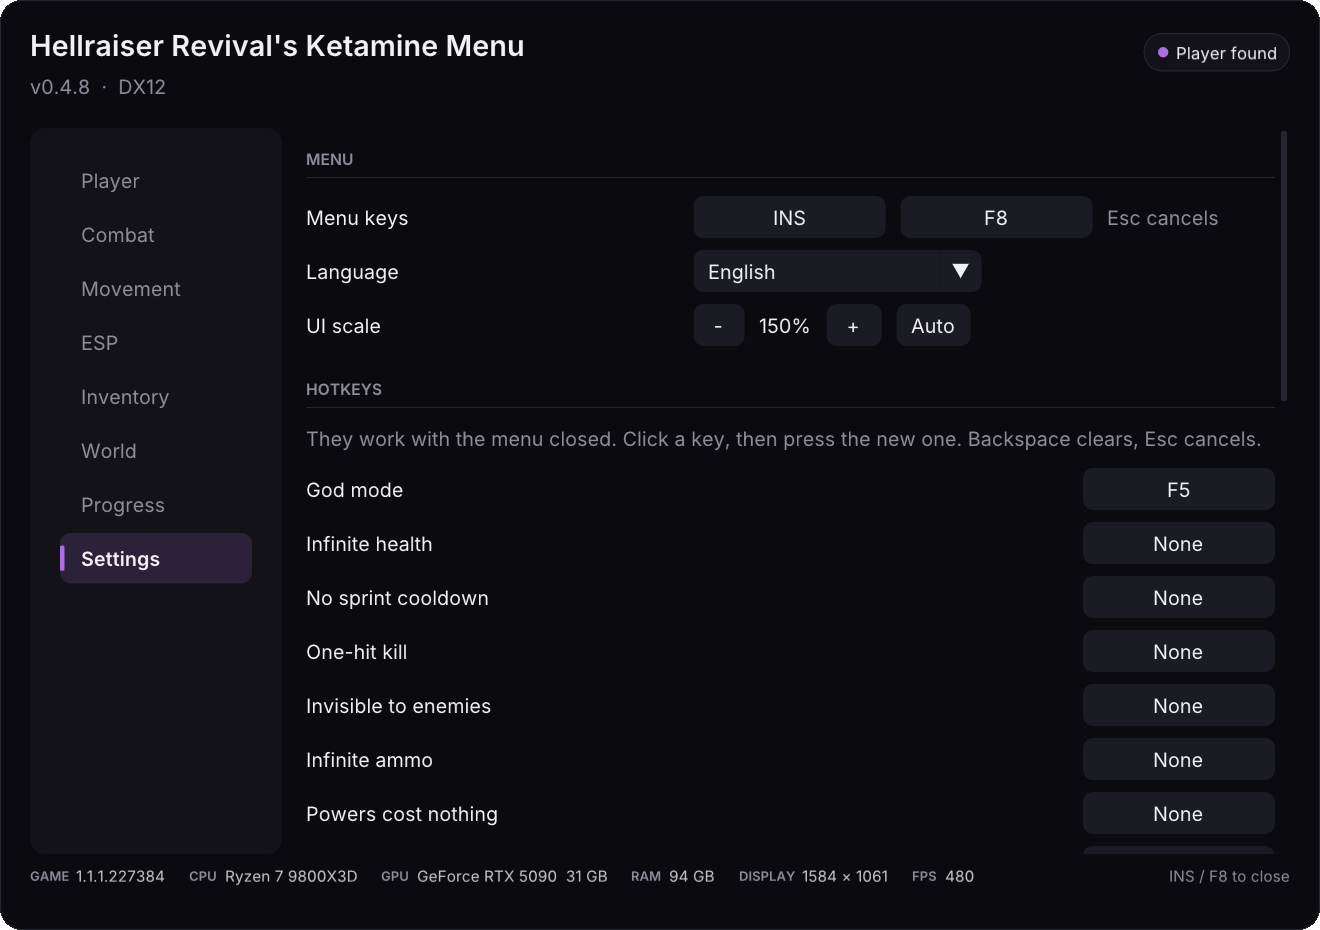
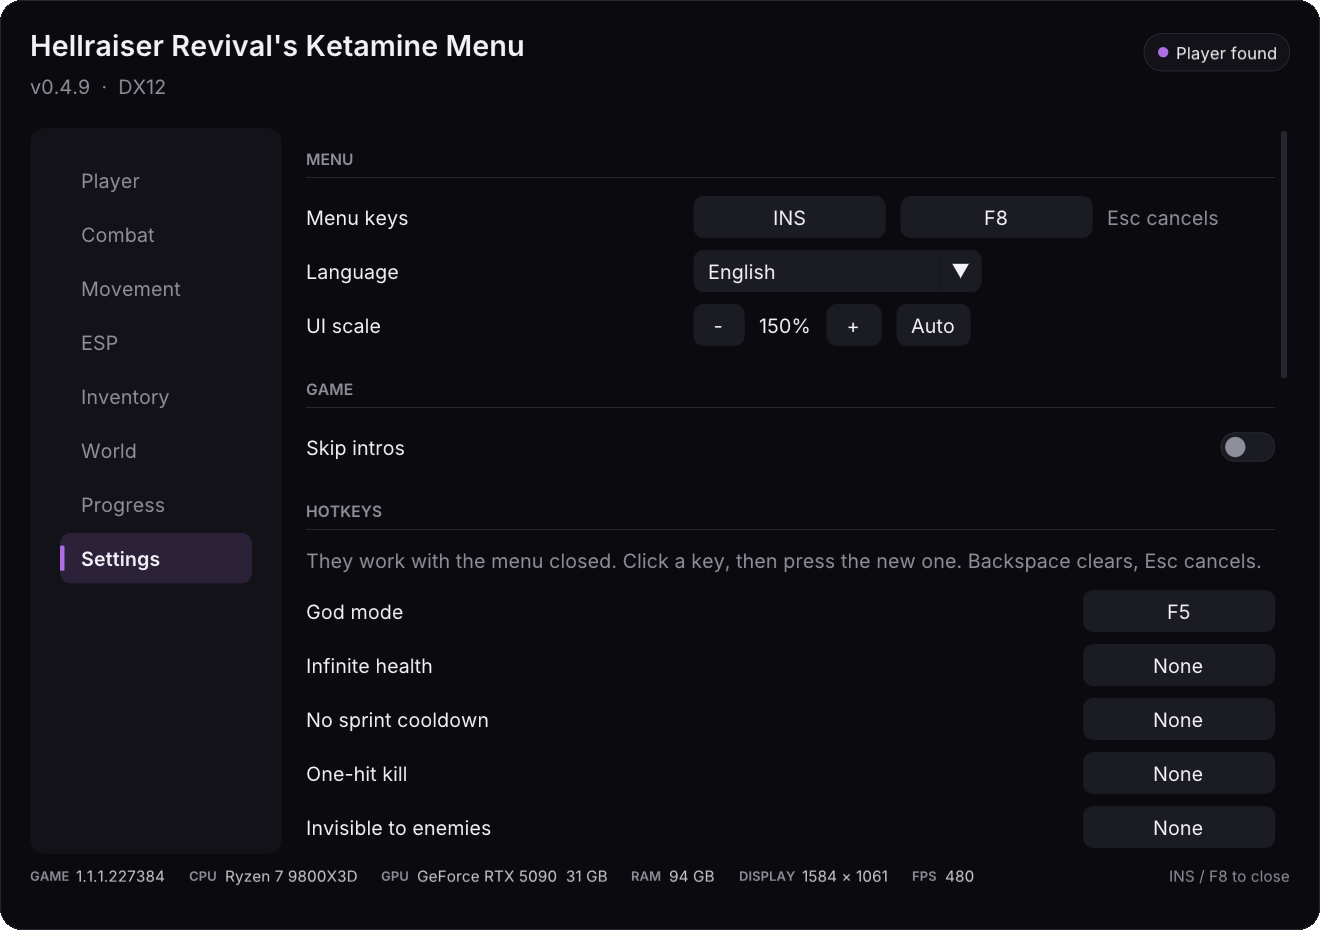
Auto lockpick and Skip intros options
- World > Auto lockpick: once a lockpick close-up has been open for 0.6 s,
  the puzzle task the player state points at is skipped with the game's own
  SkipPuzzle (PuzzleSkipped on the puzzle as a fallback).
- Settings > Skip intros: the startup splash screens (warnings, Saber, Boss
  Team, Unreal, autosave notice) are marked skipped with near-zero durations
  as soon as the live W_SplashScreens widget exists; EULA and brightness are
  left alone. Title screen ~30 s sooner, checked in the game.
- READMEs (9 languages), Nexus description, default ini and three README
  screenshots updated for these and the power unlock.

diff --git a/src/features.cpp b/src/features.cpp
@@ -33,6 +33,9 @@ const ToggleInfo kToggles[ToggleCount] = {
     {"FreezeAI", "Freeze enemies", "Enemies stop moving and attacking."},
     {"HideHUD", "Hide HUD", "Hides the game interface (menus you open later stay visible)."},
     {"FreeCam", "Free camera", "Detached camera: movement keys to move, mouse to look. Your character stays in place."},
+    {"AutoLockpick", "Auto lockpick", "Locks open by themselves a moment after you start picking them."},
+    {"SkipIntros", "Skip intros",
+     "Skips the logos and notices when the game starts. The EULA and brightness screens still show the first time."},
     {"Esp", "ESP", "Shows enemies and objects through walls."},
     {"EspBox", "Box", "Corner box around each enemy.", true},
     {"EspHealth", "Health bar", "Enemy health next to the box.", true},
@@ -85,6 +88,9 @@ Snapshot g_snap;
 struct State {
     Weak pc, player, attrs, cmc, cheat, objectives;
     Weak cheatPawn; // the pawn the tag-based cheats (invisible, infinite ammo) were applied to
+    uint64_t lockAt = 0;                 // when the current lockpick close-up opened (UINT64_MAX: already opened)
+    uint64_t splashAt = 0, splashSince = 0; // last / first look for the startup splash screens
+    bool introsDone = false;
     std::map<std::string, Weak> cdo;
     std::map<std::string, Weak> items;
     std::vector<Weak> enemies;
@@ -714,6 +720,25 @@ void TickPlayer(UObject* player, uint64_t now, Snapshot& snap)
             *ammo = top;
         }
     }
+    // Auto lockpick: once a lockpick close-up has been open for a moment, let the game's own puzzle skip open it.
+    // The player state points at the puzzle task only while a puzzle is open, so the class lookups stay rare.
+    auto flag = [](UObject* o, const char* name) {
+        bool v = false;
+        return GetBool(o, name, &v) && v;
+    };
+    UObject* task = g_on[AutoLockpick] ? Ptr(Ptr(pc, "PlayerState"), "PuzzleRef") : nullptr;
+    UObject* puzzle = task && IsA(task, FindClass("BP_TASK_FocusEnvPuzzle_C")) ? Ptr(task, "PuzzleActorRef") : nullptr;
+    if (!puzzle || !IsA(puzzle, FindClass("BP_EnvPuzzleBaseActor_LockpickPuzzle_C")) || !flag(puzzle, "bPuzzleActive") ||
+        flag(puzzle, "PuzzleFinished")) {
+        s.lockAt = 0;
+    } else if (!s.lockAt) {
+        s.lockAt = now;
+    } else if (s.lockAt != UINT64_MAX && now - s.lockAt > 600) {
+        s.lockAt = UINT64_MAX; // once per close-up
+        bool ok = Call(task, "SkipPuzzle").Run() || Call(puzzle, "PuzzleSkipped").Run();
+        km::Log("Auto lockpick: %s", ok ? "lock opened" : "the puzzle can't be skipped");
+    }
+
     if (!FindProp(ClassOf(player), "bIgnoreSufferingCost")) why[NoSufferingCost] = "Suffering settings not found.";
     if (Track(NoSufferingCost, [&] {
             SetBool(player, "bIgnoreSufferingCost", false);
@@ -867,6 +892,34 @@ void SlowRefresh(UObject* player, Snapshot& snap)
     for (auto& c : cps) snap.checkpoints.push_back(c.second);
 }
 
+// Startup logos and notices: as soon as the splash widget exists, mark each screen skipped and shrink its durations
+// so it ends at once through its own flow. The interactive screens (EULA, brightness) are left alone.
+void TickIntros(uint64_t now)
+{
+    if (s.introsDone || !g_on[SkipIntros] || now - s.splashAt < 100) return;
+    if (!s.splashAt) s.splashSince = now;
+    s.splashAt = now;
+    if (now - s.splashSince > 60000) s.introsDone = true; // missed them (menu loaded late): stop scanning
+    UObject* splash = nullptr; // the live widget, not a template: the one whose screens exist
+    ForEachInstance(FindClass("W_SplashScreens_C"), [&](UObject* o) {
+        if (Ptr(o, "W_SplashScreen_Saber")) splash = o;
+        return !splash;
+    });
+    int changed = 0;
+    for (const char* name : {"W_SplashScreen_Warning", "W_SplashScreen_UE", "W_SplashScreen_Saber", "W_SplashScreen_BTG",
+                             "W_SplashScreen_Photosensitivty", "W_SplashScreen_JoyCon", "W_SplashScreen_AutoSave"}) {
+        UObject* screen = Ptr(splash, name);
+        if (!screen) continue;
+        changed++;
+        SetBool(screen, "bSkip", true);
+        for (const char* d : {"StayDuration", "FadeDuration"})
+            if (double* v = Member<double>(screen, d)) *v = 0.01;
+    }
+    if (!changed) return; // not created yet (or its screens aren't built yet)
+    s.introsDone = true;
+    km::Log("Intros: %d splash screens skipped", changed);
+}
+
 void Tick()
 {
     uint64_t now = GetTickCount64();
@@ -909,6 +962,8 @@ void Tick()
     }
 
     snap.player = player != nullptr;
+    if (player) s.introsDone = true; // the intros only play before the first save is loaded
+    TickIntros(now);
     if (player) {
         TickPlayer(player, now, snap);
         TickEsp(s.pc.Get(), player, now);
@@ -918,6 +973,7 @@ void Tick()
         }
     } else {
         snap.why.fill("Load a save first.");
+        snap.why[SkipIntros].clear(); // works from the title screen
         snap.valueWhy.fill("Load a save first.");
         snap.powersWhy = "Load a save first.";
         snap.powers = {};

diff --git a/src/lang.cpp b/src/lang.cpp
@@ -62,6 +62,8 @@ const char* const kTable[][Count] = {
      "OBJETIVOS ACTUALES", "OBJETIVOS ATUAIS"},
     {"SHOP", "商店", "ショップ", "상점", "МАГАЗИН", "LADEN", "BOUTIQUE", "TIENDA", "LOJA"},
     {"MENU", "菜单", "メニュー", "메뉴", "МЕНЮ", "MENÜ", "MENU", "MENÚ", "MENU"},
+    {"GAME", "游戏", "ゲーム", "게임", "ИГРА", "SPIEL", "JEU", "JUEGO", "JOGO"},
+    {"LOCKS", "锁", "鍵", "자물쇠", "ЗАМКИ", "SCHLÖSSER", "SERRURES", "CERRADURAS", "FECHADURAS"},
     {"HOTKEYS", "快捷键", "ホットキー", "단축키", "ГОРЯЧИЕ КЛАВИШИ", "TASTENKÜRZEL", "RACCOURCIS", "ATAJOS", "ATALHOS"},
     {"CONFIGURATION", "配置", "構成", "구성", "КОНФИГУРАЦИЯ", "KONFIGURATION", "CONFIGURATION", "CONFIGURACIÓN", "CONFIGURAÇÃO"},
 
@@ -445,6 +447,26 @@ const char* const kTable[][Count] = {
      "Caméra détachée : touches de déplacement pour bouger, souris pour regarder. Votre personnage reste sur place.",
      "Cámara separada: teclas de movimiento para moverte, ratón para mirar. Tu personaje se queda quieto.",
      "Câmera solta: teclas de movimento para mover, mouse para olhar. Seu personagem fica parado."},
+    {"Auto lockpick", "自动开锁", "自動ピッキング", "자동 자물쇠 따기", "Автовзлом замков", "Auto-Schlossknacken",
+     "Crochetage auto", "Ganzúa automática", "Arrombamento automático"},
+    {"Locks open by themselves a moment after you start picking them.", "开始撬锁片刻后，锁会自动打开。",
+     "ピッキングを始めて少しすると、鍵が自動で開きます。", "자물쇠를 따기 시작하면 잠시 후 저절로 열립니다.",
+     "Замок открывается сам через мгновение после начала взлома.",
+     "Schlösser öffnen sich kurz nach Beginn des Knackens von selbst.",
+     "Les serrures s'ouvrent d'elles-mêmes peu après le début du crochetage.",
+     "Las cerraduras se abren solas un momento después de empezar a forzarlas.",
+     "As fechaduras abrem sozinhas logo depois que você começa a arrombá-las."},
+    {"Skip intros", "跳过开场", "イントロをスキップ", "인트로 건너뛰기", "Пропуск заставок", "Intros überspringen",
+     "Passer les intros", "Saltar intros", "Pular introduções"},
+    {"Skips the logos and notices when the game starts. The EULA and brightness screens still show the first time.",
+     "跳过游戏启动时的标志和提示。最终用户许可协议和亮度设置画面在第一次启动时仍会显示。",
+     "起動時のロゴと注意画面をスキップします。利用規約と明るさ設定の画面は初回のみ表示されます。",
+     "게임 시작 시 로고와 안내 화면을 건너뜁니다. 이용 약관과 밝기 화면은 처음에는 표시됩니다.",
+     "Пропускает логотипы и предупреждения при запуске игры. Соглашение и экран яркости всё равно появятся в первый раз.",
+     "Überspringt Logos und Hinweise beim Spielstart. EULA und Helligkeit erscheinen beim ersten Mal trotzdem.",
+     "Passe les logos et avertissements au lancement du jeu. Le CLUF et l'écran de luminosité s'affichent quand même la première fois.",
+     "Salta los logotipos y avisos al iniciar el juego. El EULA y la pantalla de brillo se muestran igualmente la primera vez.",
+     "Pula os logos e avisos ao iniciar o jogo. O EULA e a tela de brilho ainda aparecem na primeira vez."},
     {"Shows enemies and objects through walls.", "透过墙壁显示敌人和物体。", "壁越しに敵とオブジェクトを表示します。",
      "벽 너머의 적과 오브젝트를 표시합니다.", "Показывает врагов и объекты сквозь стены.", "Zeigt Gegner und Objekte durch Wände.",
      "Affiche les ennemis et objets à travers les murs.", "Muestra enemigos y objetos a través de las paredes.",

diff --git a/src/menu.cpp b/src/menu.cpp
@@ -596,6 +596,8 @@ void TabWorld(const feat::Snapshot& s)
     SliderRow(feat::Fov, "Field of view", "%.0f°", s, "Locks the camera field of view. Default gives control back to the game.",
               "Default");
     ToggleRow(feat::HideHUD, s);
+    Section("LOCKS");
+    ToggleRow(feat::AutoLockpick, s);
 }
 
 void TabProgress(const feat::Snapshot& s)
@@ -668,7 +670,7 @@ void BindButton(const char* id, int target, unsigned key)
     ImGui::PopID();
 }
 
-void TabSettings(const feat::Snapshot&)
+void TabSettings(const feat::Snapshot& s)
 {
     Section("MENU");
     float avail = ImGui::GetContentRegionAvail().x, x0 = ImGui::GetCursorPosX();
@@ -708,12 +710,16 @@ void TabSettings(const feat::Snapshot&)
     if (ImGui::Button(T("Auto"))) setScale(0);
     ImGui::EndDisabled();
 
+    Section("GAME");
+    ToggleRow(feat::SkipIntros, s);
+
     Section("HOTKEYS");
     Hint("They work with the menu closed. Click a key, then press the new one. Backspace clears, Esc cancels.");
     if (ImGui::BeginTable("hotkeys", 2, ImGuiTableFlags_NoPadOuterX)) {
         ImGui::TableSetupColumn("Feature", ImGuiTableColumnFlags_WidthStretch);
         ImGui::TableSetupColumn("Key", ImGuiTableColumnFlags_WidthFixed);
         for (int t = 0; t < feat::ToggleCount; t++) {
+            if (t == feat::SkipIntros) continue; // only matters at startup
             ImGui::TableNextRow();
             ImGui::TableNextColumn();
             ImGui::AlignTextToFramePadding();

diff --git a/src/features.h b/src/features.h
@@ -13,7 +13,7 @@ enum Toggle {
     GodMode, InfiniteHealth, NoSprintCooldown, OneHitKill, Invisible,
     InfiniteAmmo, NoSufferingCost, NoPowerCooldown, Unbreakable,
     Fly, Noclip,
-    FreezeAI, HideHUD, FreeCam,
+    FreezeAI, HideHUD, FreeCam, AutoLockpick, SkipIntros,
     Esp, EspBox, EspHealth, EspName, EspDistance, EspSkeleton, EspHead, EspChams, EspSnaplines, EspOffscreen,
     EspItems, EspContainers, EspSavePoints,
     ToggleCount

diff --git a/README.ru.md b/README.ru.md
@@ -94,6 +94,7 @@ Clive Barker's Hellraiser - Revival\
 - Неломающееся оружие ближнего боя
 - Способности Конфигурации Генезиса (Genesis Configuration) без затрат Страдания
 - Без перезарядки способностей, восполнение Страдания
+- Телекинез, пирокинез и адские цепи раньше, чем по сюжету
 
 **Движение**
 - Полёт и прохождение сквозь стены — туда, куда вы смотрите, обычными клавишами движения или геймпадом
@@ -118,6 +119,8 @@ Clive Barker's Hellraiser - Revival\
 - Скорость времени (замедление / ускорение)
 - Заморозить врагов, убить врагов рядом
 - Редактор поля зрения (FOV) (от 50° до 130°, на лету), скрыть HUD
+- Автовзлом: замки открываются сами
+- Пропуск логотипов и предупреждений при запуске (около 30 с экономии)
 
 **Прогресс**
 - Активные и выполненные задания, выполнить задание, изменить уровень магазина

diff --git a/README.fr.md b/README.fr.md
@@ -94,6 +94,7 @@ avec la raison dans une infobulle, au lieu de faire planter le jeu.
 - Armes de mêlée incassables
 - Pouvoirs de la Configuration Genesis sans coût en Souffrance
 - Pouvoirs sans recharge, remplir la Souffrance
+- Débloquer Télékinésie, Pyrokinésie et Chaînes infernales avant l'histoire
 
 **Déplacement**
 - Vol et noclip vers là où vous regardez, avec vos touches de déplacement habituelles ou la manette
@@ -118,6 +119,8 @@ avec la raison dans une infobulle, au lieu de faire planter le jeu.
 - Vitesse du temps (ralenti / accéléré)
 - Figer les ennemis, tuer les ennemis proches
 - Éditeur de champ de vision (FOV, de 50° à 130°, en direct), masquer le HUD
+- Crochetage auto : les serrures s'ouvrent toutes seules
+- Passer les logos et avertissements au lancement (environ 30 s de gagnées)
 
 **Progression**
 - Voir les objectifs en cours et terminés, en terminer un, changer le niveau de la boutique

diff --git a/README.ja.md b/README.ja.md
@@ -94,6 +94,7 @@ Clive Barker's Hellraiser - Revival\
 - 近接武器が壊れない
 - ジェネシス構成（Genesis Configuration）の能力で苦痛を消費しない
 - 能力のクールダウンなし、苦痛を満タンにする
+- 念動力・発火能力・ヘルチェーンをストーリーより先にアンロック
 
 **移動**
 - 飛行と壁抜け。見ている方向へ、いつもの移動キーやゲームパッドで操作
@@ -118,6 +119,8 @@ Clive Barker's Hellraiser - Revival\
 - 時間の速さ（スローモーション / 早送り）
 - 敵を停止、近くの敵を倒す
 - 視野角（FOV）エディタ（50°〜130°、リアルタイム）、HUD 非表示
+- 自動ピッキング：鍵が自動で開く
+- 起動時のロゴと注意画面をスキップ（約 30 秒短縮）
 
 **進行**
 - 進行中・完了済みの目標を確認、目標を完了、ショップのレベルを変更

diff --git a/README.es.md b/README.es.md
@@ -94,6 +94,7 @@ Cada opción busca los datos del juego **por su nombre mientras se ejecuta**. Si
 - Armas cuerpo a cuerpo irrompibles
 - Poderes de la Configuración Génesis sin coste de Sufrimiento
 - Poderes sin enfriamiento, llenar Sufrimiento
+- Desbloquear Telequinesis, Piroquinesis y Cadenas infernales antes que la historia
 
 **Movimiento**
 - Volar y noclip hacia donde miras, con tus teclas de movimiento habituales o el mando
@@ -118,6 +119,8 @@ Cada opción busca los datos del juego **por su nombre mientras se ejecuta**. Si
 - Escala de tiempo (cámara lenta / avance rápido)
 - Congelar enemigos, matar enemigos cercanos
 - Editor de campo de visión (FOV, de 50° a 130°, en vivo), ocultar HUD
+- Ganzúa automática: las cerraduras se abren solas
+- Saltar los logotipos y avisos al iniciar (unos 30 s menos)
 
 **Progreso**
 - Ver objetivos activos y completados, completar uno, cambiar el nivel de la tienda

diff --git a/README.de.md b/README.de.md
@@ -94,6 +94,7 @@ der Grund steht im Tooltip, statt dass das Spiel abstürzt.
 - Unzerstörbare Nahkampfwaffen
 - Kräfte der Genesis-Konfiguration ohne Leid-Kosten
 - Keine Abklingzeit für Kräfte, Leid auffüllen
+- Telekinese, Pyrokinese und Höllenketten vor der Story freischalten
 
 **Bewegung**
 - Fliegen und Noclip in Blickrichtung, mit deinen üblichen Bewegungstasten oder dem Gamepad
@@ -118,6 +119,8 @@ der Grund steht im Tooltip, statt dass das Spiel abstürzt.
 - Zeitskala (Zeitlupe / Zeitraffer)
 - Gegner einfrieren, Gegner in der Nähe töten
 - Sichtfeld-Editor (FOV, 50° bis 130°, live), HUD ausblenden
+- Auto-Schlossknacken: Schlösser öffnen sich von selbst
+- Logos und Hinweise beim Start überspringen (rund 30 s gespart)
 
 **Fortschritt**
 - Aktive und abgeschlossene Ziele ansehen, ein Ziel abschließen, Shop-Stufe ändern

diff --git a/README.ko.md b/README.ko.md
@@ -94,6 +94,7 @@ Clive Barker's Hellraiser - Revival\
 - 근접 무기 파손 없음
 - 제네시스 구성(Genesis Configuration) 능력 사용 시 고통 소모 없음
 - 능력 쿨다운 없음, 고통 채우기
+- 염력, 발화 능력, 지옥 사슬을 스토리보다 먼저 잠금 해제
 
 **이동**
 - 비행과 벽 통과: 바라보는 방향으로, 평소의 이동 키나 게임패드로 조작
@@ -118,6 +119,8 @@ Clive Barker's Hellraiser - Revival\
 - 시간 배속(슬로 모션 / 빨리 감기)
 - 적 정지, 주변 적 처치
 - 시야각(FOV) 편집(50°~130°, 실시간), HUD 숨기기
+- 자동 자물쇠 따기: 자물쇠가 저절로 열림
+- 시작할 때 로고와 안내 화면 건너뛰기 (약 30초 절약)
 
 **진행**
 - 진행 중인 목표와 완료한 목표 확인, 목표 완료, 상점 레벨 변경

diff --git a/README.pt-BR.md b/README.pt-BR.md
@@ -94,6 +94,7 @@ na dica, em vez de fechar o jogo.
 - Armas corpo a corpo inquebráveis
 - Poderes da Configuração Gênesis sem custo de Sofrimento
 - Poderes sem recarga, encher o Sofrimento
+- Desbloquear Telecinese, Pirocinese e Correntes infernais antes da história
 
 **Movimento**
 - Voar e noclip para onde você olha, com as teclas de movimento de sempre ou o controle
@@ -118,6 +119,8 @@ na dica, em vez de fechar o jogo.
 - Escala de tempo (câmera lenta / acelerar)
 - Congelar inimigos, matar inimigos próximos
 - Editor de campo de visão (FOV, de 50° a 130°, ao vivo), ocultar HUD
+- Arrombamento automático: as fechaduras abrem sozinhas
+- Pular os logos e avisos ao iniciar (uns 30 s a menos)
 
 **Progresso**
 - Ver objetivos ativos e concluídos, concluir um, mudar o nível da loja

diff --git a/README.md b/README.md
@@ -94,6 +94,7 @@ out with the reason in a tooltip instead of crashing.
 - Unbreakable melee weapons
 - Genesis Configuration powers with no Suffering cost
 - No power cooldown, refill Suffering
+- Unlock Telekinesis, Pyrokinesis and Hellchains before the story does
 
 **Movement**
 - Fly and noclip, towards where you look, with your usual movement keys or gamepad
@@ -118,6 +119,8 @@ out with the reason in a tooltip instead of crashing.
 - Time scale (slow motion / fast forward)
 - Freeze enemies, kill enemies nearby
 - FOV editor (50° to 130°, live), hide HUD
+- Auto lockpick: locks open by themselves
+- Skip the logos and notices at startup (about 30 s saved)
 
 **Progress**
 - See active and completed objectives, complete one, change the shop level
